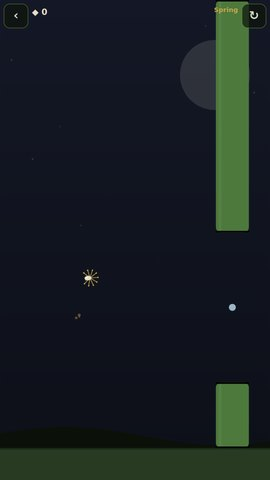
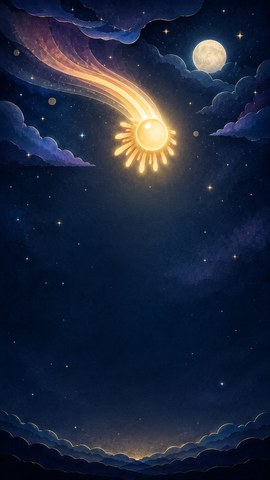
Seed Flutter → "Cosmic Cadets": rename the game per Director preference
Stephen prefers "Cosmic Cadets" to "Comet Cadets". Renamed every player-visible
surface — title-word, <title>/app-title meta, build stamp, share text, and the
portal card (name + cosmic description + ☄ icon + fresh cosmic thumbnail from
bg_title). URL slug (/satellites/seed-flutter/) and localStorage keys kept as
infrastructure so live saves and links don't break.

diff --git a/portal/index.html b/portal/index.html
@@ -428,7 +428,7 @@ var FEATURED = [
   {nm:"Dewball", ds:"A full 3D roll and grow adventure, our take on the katamari classic. Roll a sticky bead of dew through six little worlds, a giant picnic blanket, a toybox floor, the midnight garden, a market street and a dusk harbor, and everything smaller than you sticks. Grow from a crumb to something that swallows rowboats, shove what you cannot lift yet, and take sweet revenge on the critters that bullied you. Twin stick controls, left thumb rolls, right thumb looks. Chase three stars a world, press keepsakes into your Grove, or drift the endless Dream Meadow.", url:"/satellites/dewball/", ic:"🫧", thumb:"/portal-assets/thumbs/dewball.jpg"},
   {nm:"Dew Snip", ds:"A cozy botanical rope-cutter, sleeker than the mobile classic. Swipe to snip the moonlit vines and let a bead of dew swing free on its arc, sweeping through three glints of nectar and into the waiting sprout. Tap the pollen bellows to puff it across gaps and up over thorns, and never a harsh game over, a miss just resets. Every drop you deliver blooms a one of a kind keepsake flower in your Grove. Play 15 hand grown beds, a seeded Daily Dew, or the endless Free Vine.", url:"/satellites/dew-snip/", ic:"💧"},
   {nm:"Berry Vine", ds:"A cozy botanical marble shooter, sleeker than the arcade classic. A vine of berries crawls toward the burrow, so fire from the seedpod and match three to burst a cascade before it curls home. See your next berry and swap it, and charge a Pollen Burst to repaint the vine so color luck never beats you. Berries read by shape and color both. Play the twelve bed Vine Journey, a seeded Daily Sprout, the no fail Zen Trellis, or the endless Bloom Rush.", url:"/satellites/berry-vine/", ic:"🫐", thumb:"/portal-assets/thumbs/berry-vine.jpg"},
-  {nm:"Seed Flutter", ds:"A cozy one tap flier, sleeker than the mobile classic. Lift a dandelion seed on the night wind and thread the reed gaps, and thread the very center of a gap for a Perfect that blooms a flower on the stem. Build a Bloomstreak as the meadow drifts through all four seasons and the wind picks up, and never a hard crash, the seed just settles softly into the soil. Your best streak grows keepsake flowers in your Grove. Play the Endless Drift, a seeded Daily Gust, the four season Gauntlet, or the no fail Zen Meadow.", url:"/satellites/seed-flutter/", ic:"🪶", thumb:"/portal-assets/thumbs/seed-flutter.jpg"},
+  {nm:"Cosmic Cadets", ds:"A cozy one tap flier, sleeker than the mobile classic. Lift a little Comet Cadet on the night wind and thread the crystal star-spires, and thread the very center Star of a gap for a Perfect that ignites a keepsake. Build a Bloomstreak as the sky drifts through four changing phases and the wind picks up, and never a hard crash, the cadet just settles softly. Your best streak grows keepsake stars onto your Sky Map. Play the Endless Drift, a seeded Daily Gust, the four phase Gauntlet, or the no fail Zen Drift.", url:"/satellites/seed-flutter/", ic:"☄", thumb:"/portal-assets/thumbs/seed-flutter.jpg"},
   {nm:"Leaf Fit", ds:"A cozy botanical block puzzle, sleeker than the mobile classic. Drag leaf sprigs onto the midnight trellis and fill a whole row, column, or three by three patch to clear it in a shower of pollen. Every clear banks Nectar, and when it fills you spend a Bloom to deal three fresh sprigs, so you only ever lose to your own play, never a bad shuffle or an ad wall. Pieces read by shape and color both. Play the endless Bloom Run, a seeded Daily Trellis, the tougher Gauntlet, or the no fail Zen Trellis.", url:"/satellites/leaf-fit/", ic:"🧩", thumb:"/portal-assets/thumbs/leaf-fit.jpg"},
   {nm:"Seed Reel", ds:"A cozy garden slot roguelike, sleeker than the desktop classic. Spin a raised bed of seeds, bees and companion creatures where neighbours help each other bloom, then use the Gardener's Hand to slide one tile before you harvest and line up a synergy, so a spin is never just luck. Draft a fresh tile every spin and meet each season's Bloom Quota, and a missed quota only sends the garden to seed for winter, never a harsh eviction. Symbols read by picture, and rare companions like the Koi and the Beholder are the big earners. Play the Grove Run, a seeded Daily Plot, the eight spin Bloom Rush, or the no fail Zen Garden.", url:"/satellites/seed-reel/", ic:"🎰", thumb:"/portal-assets/thumbs/seed-reel.jpg"},
   {nm:"Season Sway", ds:"A cozy garden of decisions, sleeker than the swipe card classic. A visitor brings one card at a time, so swipe it left or right and keep Sun, Rain, Soil and Wildlife in balance as the seasons turn and quietly pull at them. The moment you start a swipe, small arrows show which meters that choice will move, so it is a real decision and never a blind gamble, and a run only ever ends when the garden gently goes to rest. The plant you tend becomes a one of a kind keepsake bloom and a little haiku that you keep in your Grove. Play the endless Keeper's Year, a seeded Daily Almanac, a Seed Vow challenge, or the no fail Zen Tending.", url:"/satellites/season-sway/", ic:"🃏", thumb:"/portal-assets/thumbs/season-sway.jpg"},

diff --git a/satellites/seed-flutter/index.html b/satellites/seed-flutter/index.html
@@ -8,8 +8,8 @@
 <meta name="apple-mobile-web-app-capable" content="yes">
 <meta name="mobile-web-app-capable" content="yes">
 <meta name="apple-mobile-web-app-status-bar-style" content="black-translucent">
-<meta name="apple-mobile-web-app-title" content="Seed Flutter">
-<title>Seed Flutter — Sky Wolf Studios</title>
+<meta name="apple-mobile-web-app-title" content="Cosmic Cadets">
+<title>Cosmic Cadets — Sky Wolf Studios</title>
 <script src="/sunbeam-sdk.js?v=4"></script>
 <script>window.Sunbeam&&Sunbeam.init({gameId:"seedflutter"}).catch(function(){});</script>
 <style>
@@ -27,7 +27,7 @@ canvas#game{position:absolute; inset:0; width:540px; height:960px; display:block
 .screen{position:absolute; inset:0; display:none; flex-direction:column; z-index:20;
   background:linear-gradient(180deg,#0e140d 0%, #0b0f0b 100%)}
 .screen.on{display:flex}
-/* Comet Cadets sky backdrops behind each DOM panel (ID beats .screen gradient) */
+/* Cosmic Cadets sky backdrops behind each DOM panel (ID beats .screen gradient) */
 #s-title{ background:linear-gradient(180deg,rgba(8,11,14,0.28),rgba(8,11,14,0.72)), url('assets/backgrounds/bg_title.jpg?v=cc1') center/cover no-repeat #0b0f0b; }
 #s-go{ background:linear-gradient(180deg,rgba(8,11,14,0.34),rgba(8,11,14,0.80)), url('assets/backgrounds/bg_results.jpg?v=cc1') center/cover no-repeat #0b0f0b; }
 #s-how,#s-set,#s-ward,#s-grove{ background:linear-gradient(180deg,rgba(8,11,14,0.58),rgba(8,11,14,0.88)), url('assets/backgrounds/bg_play.jpg?v=cc1') center/cover no-repeat #0b0f0b; }
@@ -81,7 +81,7 @@ h2.sc-h{font-size:24px; color:var(--gold); font-weight:800; margin-bottom:4px}
   <!-- TITLE -->
   <div class="screen center on" id="s-title"><div class="pad center">
     <div style="flex:1"></div>
-    <div class="title-word">Seed Flutter</div>
+    <div class="title-word">Cosmic Cadets</div>
     <div class="title-sub">Sky Wolf Studios</div>
     <div class="ribbon">Tap to lift a <b class="hl">Comet Cadet</b> on the night wind. Thread the star-spires, and thread the <b class="hl">center Star</b> for a Perfect that ignites a keepsake. Build a <b class="hl">Bloomstreak</b> and fill your Sky Map as you drift through four changing skies.</div>
     <div style="flex:1"></div>
@@ -178,7 +178,7 @@ h2.sc-h{font-size:24px; color:var(--gold); font-weight:800; margin-bottom:4px}
 function $(id){ return document.getElementById(id); }
 function tap(id,fn){ var el=$(id); if(el)el.addEventListener('click',function(e){e.preventDefault();fn();}); }
 var VW=540, VH=960, DPR=Math.min(2,window.devicePixelRatio||1);
-var BUILD='v1.1 · Comet Cadets';
+var BUILD='v1.1';
 var TESTMODE=/[?&]sftest=1/.test(location.search);
 
 /* physics constants */
@@ -187,7 +187,7 @@ var GRAV=1500, FLAP=-432;
 var GROUND=VH-64;
 var STEM_W=66, INNER=44;
 
-/* ---------- Comet Cadets art assets (gated behind load; procedural fallbacks kept) ---------- */
+/* ---------- Cosmic Cadets art assets (gated behind load; procedural fallbacks kept) ---------- */
 var ART_V='cc1';
 function _sfImg(src){ var im=new Image(); try{ im.src=src+'?v='+ART_V; }catch(e){} return im; }
 function _sfReady(im){ return !!(im && im.complete && im.naturalWidth>0); }
@@ -727,8 +727,8 @@ function renderWard(){ renderWardList('ward-seeds','seed',SEEDS,PROG.seed,functi
   renderWardList('ward-comps','comp',COMPS,PROG.comp,function(v){PROG.comp=v;}); }
 
 /* ---------- share ---------- */
-function shareIt(){ var url='https://lucidwinds.com/satellites/seed-flutter/'; var txt='I drifted '+(PROG.bestDist||0)+' gaps in Seed Flutter ☄ and grew '+(PROG.grewTotal||0)+' keepsake stars. Play at '+url;
-  if(navigator.share){ navigator.share({title:'Seed Flutter',text:txt,url:url}).catch(function(){}); }
+function shareIt(){ var url='https://lucidwinds.com/satellites/seed-flutter/'; var txt='I drifted '+(PROG.bestDist||0)+' gaps in Cosmic Cadets ☄ and grew '+(PROG.grewTotal||0)+' keepsake stars. Play at '+url;
+  if(navigator.share){ navigator.share({title:'Cosmic Cadets',text:txt,url:url}).catch(function(){}); }
   else if(navigator.clipboard){ navigator.clipboard.writeText(txt).catch(function(){}); } }
 
 /* ---------- wire ---------- */
@@ -751,7 +751,7 @@ tap('go-share',function(){ sfx('ui'); shareIt(); });
 function wireToggle(id,key){ var el=$(id); function paint(){ if(SET[key])el.classList.add('on'); else el.classList.remove('on'); } paint();
   el.addEventListener('click',function(e){ e.preventDefault(); SET[key]=!SET[key]; paint(); saveSet(); sfx('ui'); }); }
 wireToggle('tg-sound','sound'); wireToggle('tg-haptic','haptic'); wireToggle('tg-haze','haze');
-$('buildstamp').textContent='Seed Flutter '+BUILD;
+$('buildstamp').textContent='Cosmic Cadets '+BUILD;
 window.addEventListener('pagehide',closeAC); window.addEventListener('beforeunload',closeAC);
 
 /* ---------- test hook ---------- */
